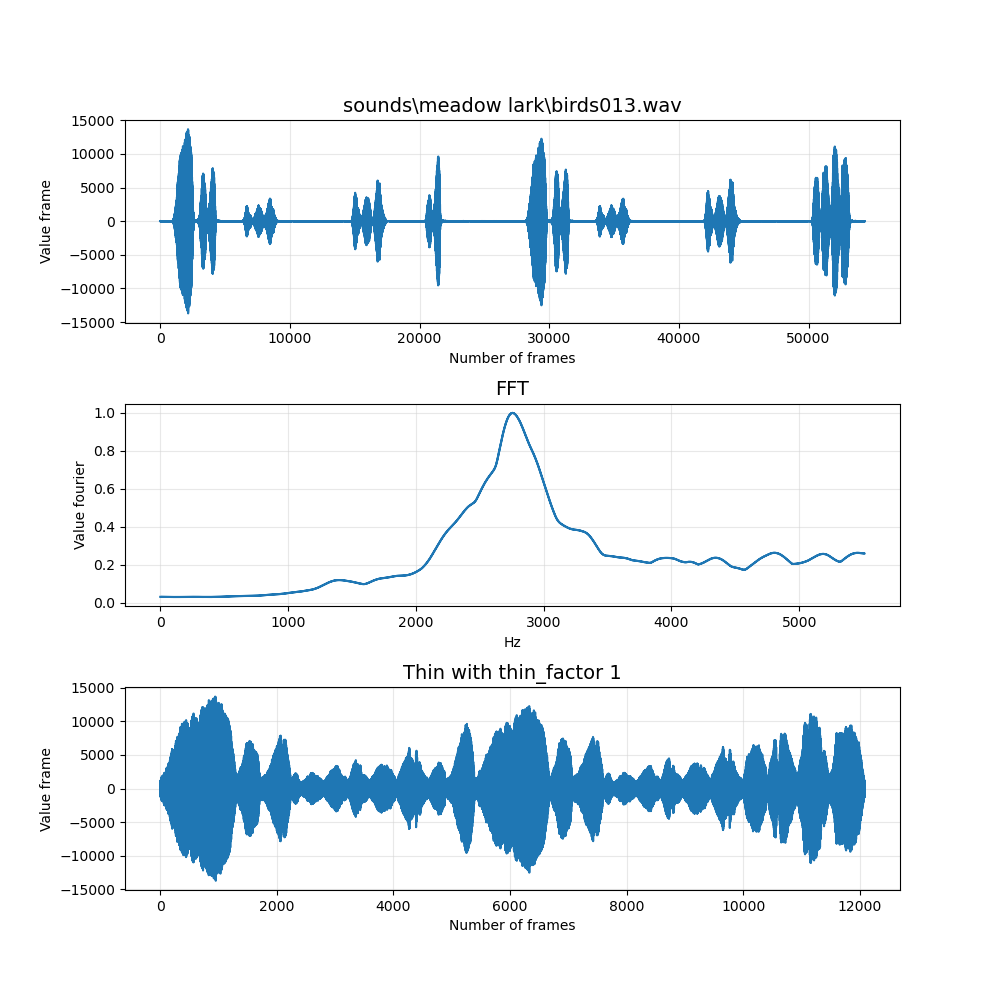
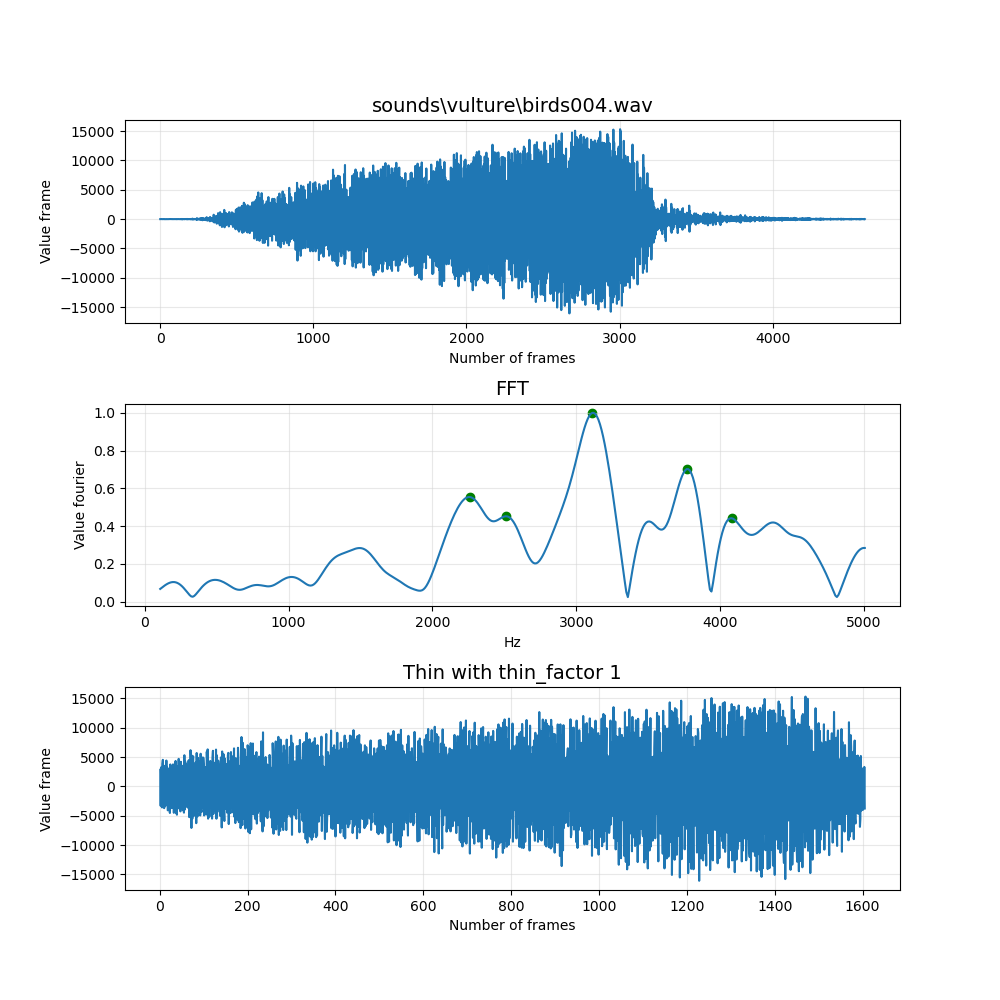
local max added

diff --git a/wav_vis.py b/wav_vis.py
@@ -22,7 +22,7 @@ types = {
     4: np.int32
 }
 
-namefile = r"sounds\meadow lark\birds013.wav"
+namefile = r"sounds\vulture\birds004.wav"
 
 w = wave.open(namefile, 'r')
 (nchannels, sampwidth, framerate, nframes, comptype, compname) = w.getparams()
@@ -42,15 +42,47 @@ thinfactor = 1
 thinned_samples = thinsamples(samples, thinfactor) # thin_crop подбирать эмперически
 fft = np.zeros(1024) # делаем изначальный нампай массив
 win = signal.gaussian(1024, std=15) # создаём гауссово окно размером 1024
-np.append(thinned_samples, np.zeros(len(thinned_samples)%1024)) # дополняем прорезанный массив семплов
-                                                                # до кратного 1024 нулями
+np.append(thinned_samples, np.zeros(len(thinned_samples) % 1024))# дополняем прорезанный массив семплов
+                                                                 # до кратного 1024 нулями
 for i in range(len(thinned_samples)//1024):
     temp = thinned_samples[i*1024:(i+1)*1024] # берём часть массива длинной 1024 элемента (семпла)
     fft += np.absolute(np.fft.fft(temp * win)) # прибавляем к итоговому массиву результат
                                                # оконного преобразования фурье части массива
 fft = fft / (len(thinned_samples)//1024) # делим массив на количество фрагментов, которые прибавляли
+
 # нормировка
 fft = fft / fft.max()
+
+# срез нужных (взять другие может быть)
+fft = fft[10:466]
+
+# все локальные максимумы
+# loc_m = []
+# for i in range(1, 455):
+#     if fft[i-1] < fft[i] and fft[i+1] < fft[i]:
+#         loc_m.append(i)
+# print(loc_m)
+# for i in loc_m:
+#     print(fft[i])
+
+# отдельное высчитывание 5 локальных
+loc_m5 = []
+
+for i in range(1, 455):# Цикл по всем индексам от 100 до 5000 гц
+    if fft[i-1] < fft[i] and fft[i+1] < fft[i]:# Если точки и слева и справа меньше -> локальный максимум
+        if len(loc_m5) == 5:# Если точек уже 5, то находим минимальную
+            min_id = 0
+            for j in range(1, 5):
+                if fft[loc_m5[min_id]] > fft[loc_m5[j]]:
+                    min_id = j
+            if fft[loc_m5[min_id]] < fft[i]:# и если минимальная по дпф точка меньше новой то заменяем
+                loc_m5[min_id] = i
+        else:
+            loc_m5.append(i)# Если меньше 5 точек то просто добавляем
+
+print(loc_m5)# вывод точек локальных максимумов
+# for i in loc_m5:# вывод значений дпф точек локальных максимумов
+#     print(fft[i])
 
 # координаты для графика волны
 x = np.arange(1, len(samples) + 1)
@@ -62,7 +94,21 @@ thin_y = thinned_samples
 
 # координаты для преобразования фурье
 x_fft = np.absolute(np.fft.fftfreq(1024, 1 / framerate))  # вычисляет частоты
+
+x_fft = x_fft[10:466]
 y_fft = fft
+
+# loc_m_hz = []
+# loc_m_fft = []
+# for i in loc_m:
+#     loc_m_hz.append(x_fft[i])
+#     loc_m_fft.append(fft[i])
+
+loc_m5_hz = []# список значений частот
+loc_m5_fft = []# список значений дпф
+for i in loc_m5:
+    loc_m5_hz.append(x_fft[i])# добавляем значения частот
+    loc_m5_fft.append(fft[i])# добавляем значения дпф
 
 # Постройка графика
 fig, axes = plt.subplots(nrows=3, ncols=1, figsize=(10, 10))
@@ -88,7 +134,8 @@ axes[1].grid(True, c='lightgray', alpha=0.5)
 axes[0].plot(x, y)
 axes[2].plot(thin_x, thin_y)
 axes[1].plot(x_fft, y_fft)
-
+# axes[1].scatter(loc_m_hz, loc_m_fft, c="deeppink")
+axes[1].scatter(loc_m5_hz, loc_m5_fft, c="green")# выводим точки локальных максимумов
 
 fig.savefig("wave.png")
 fig.show()
